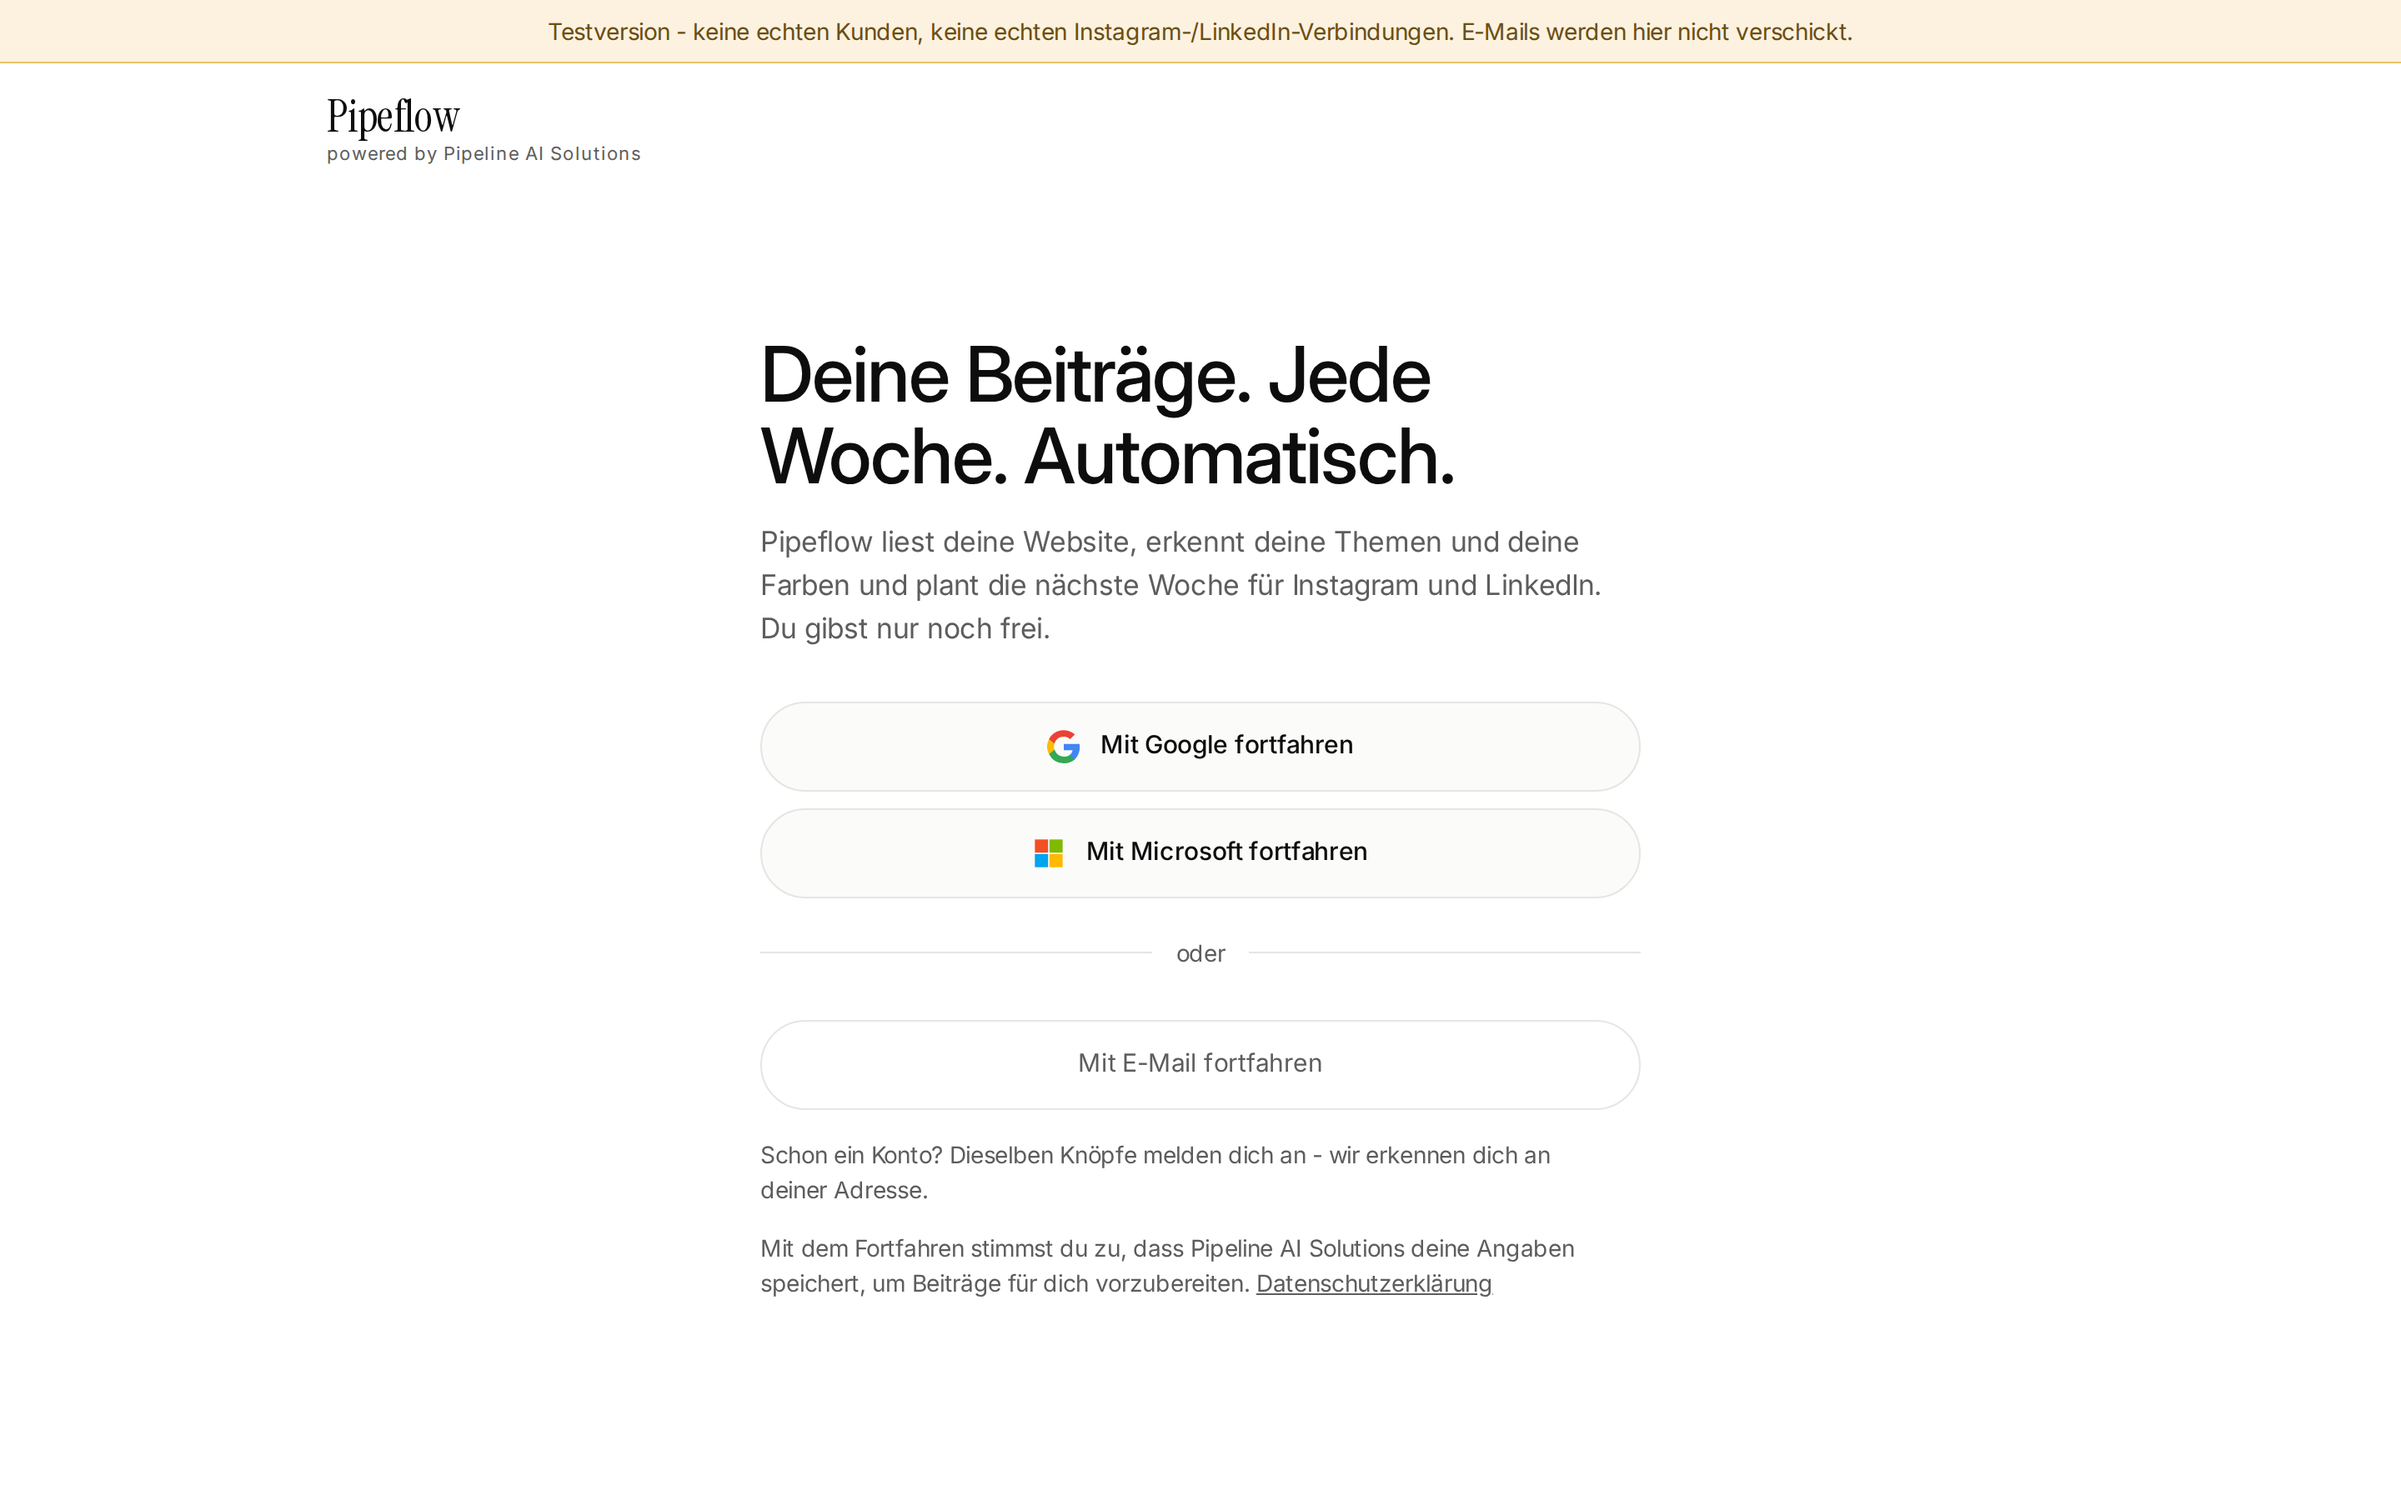
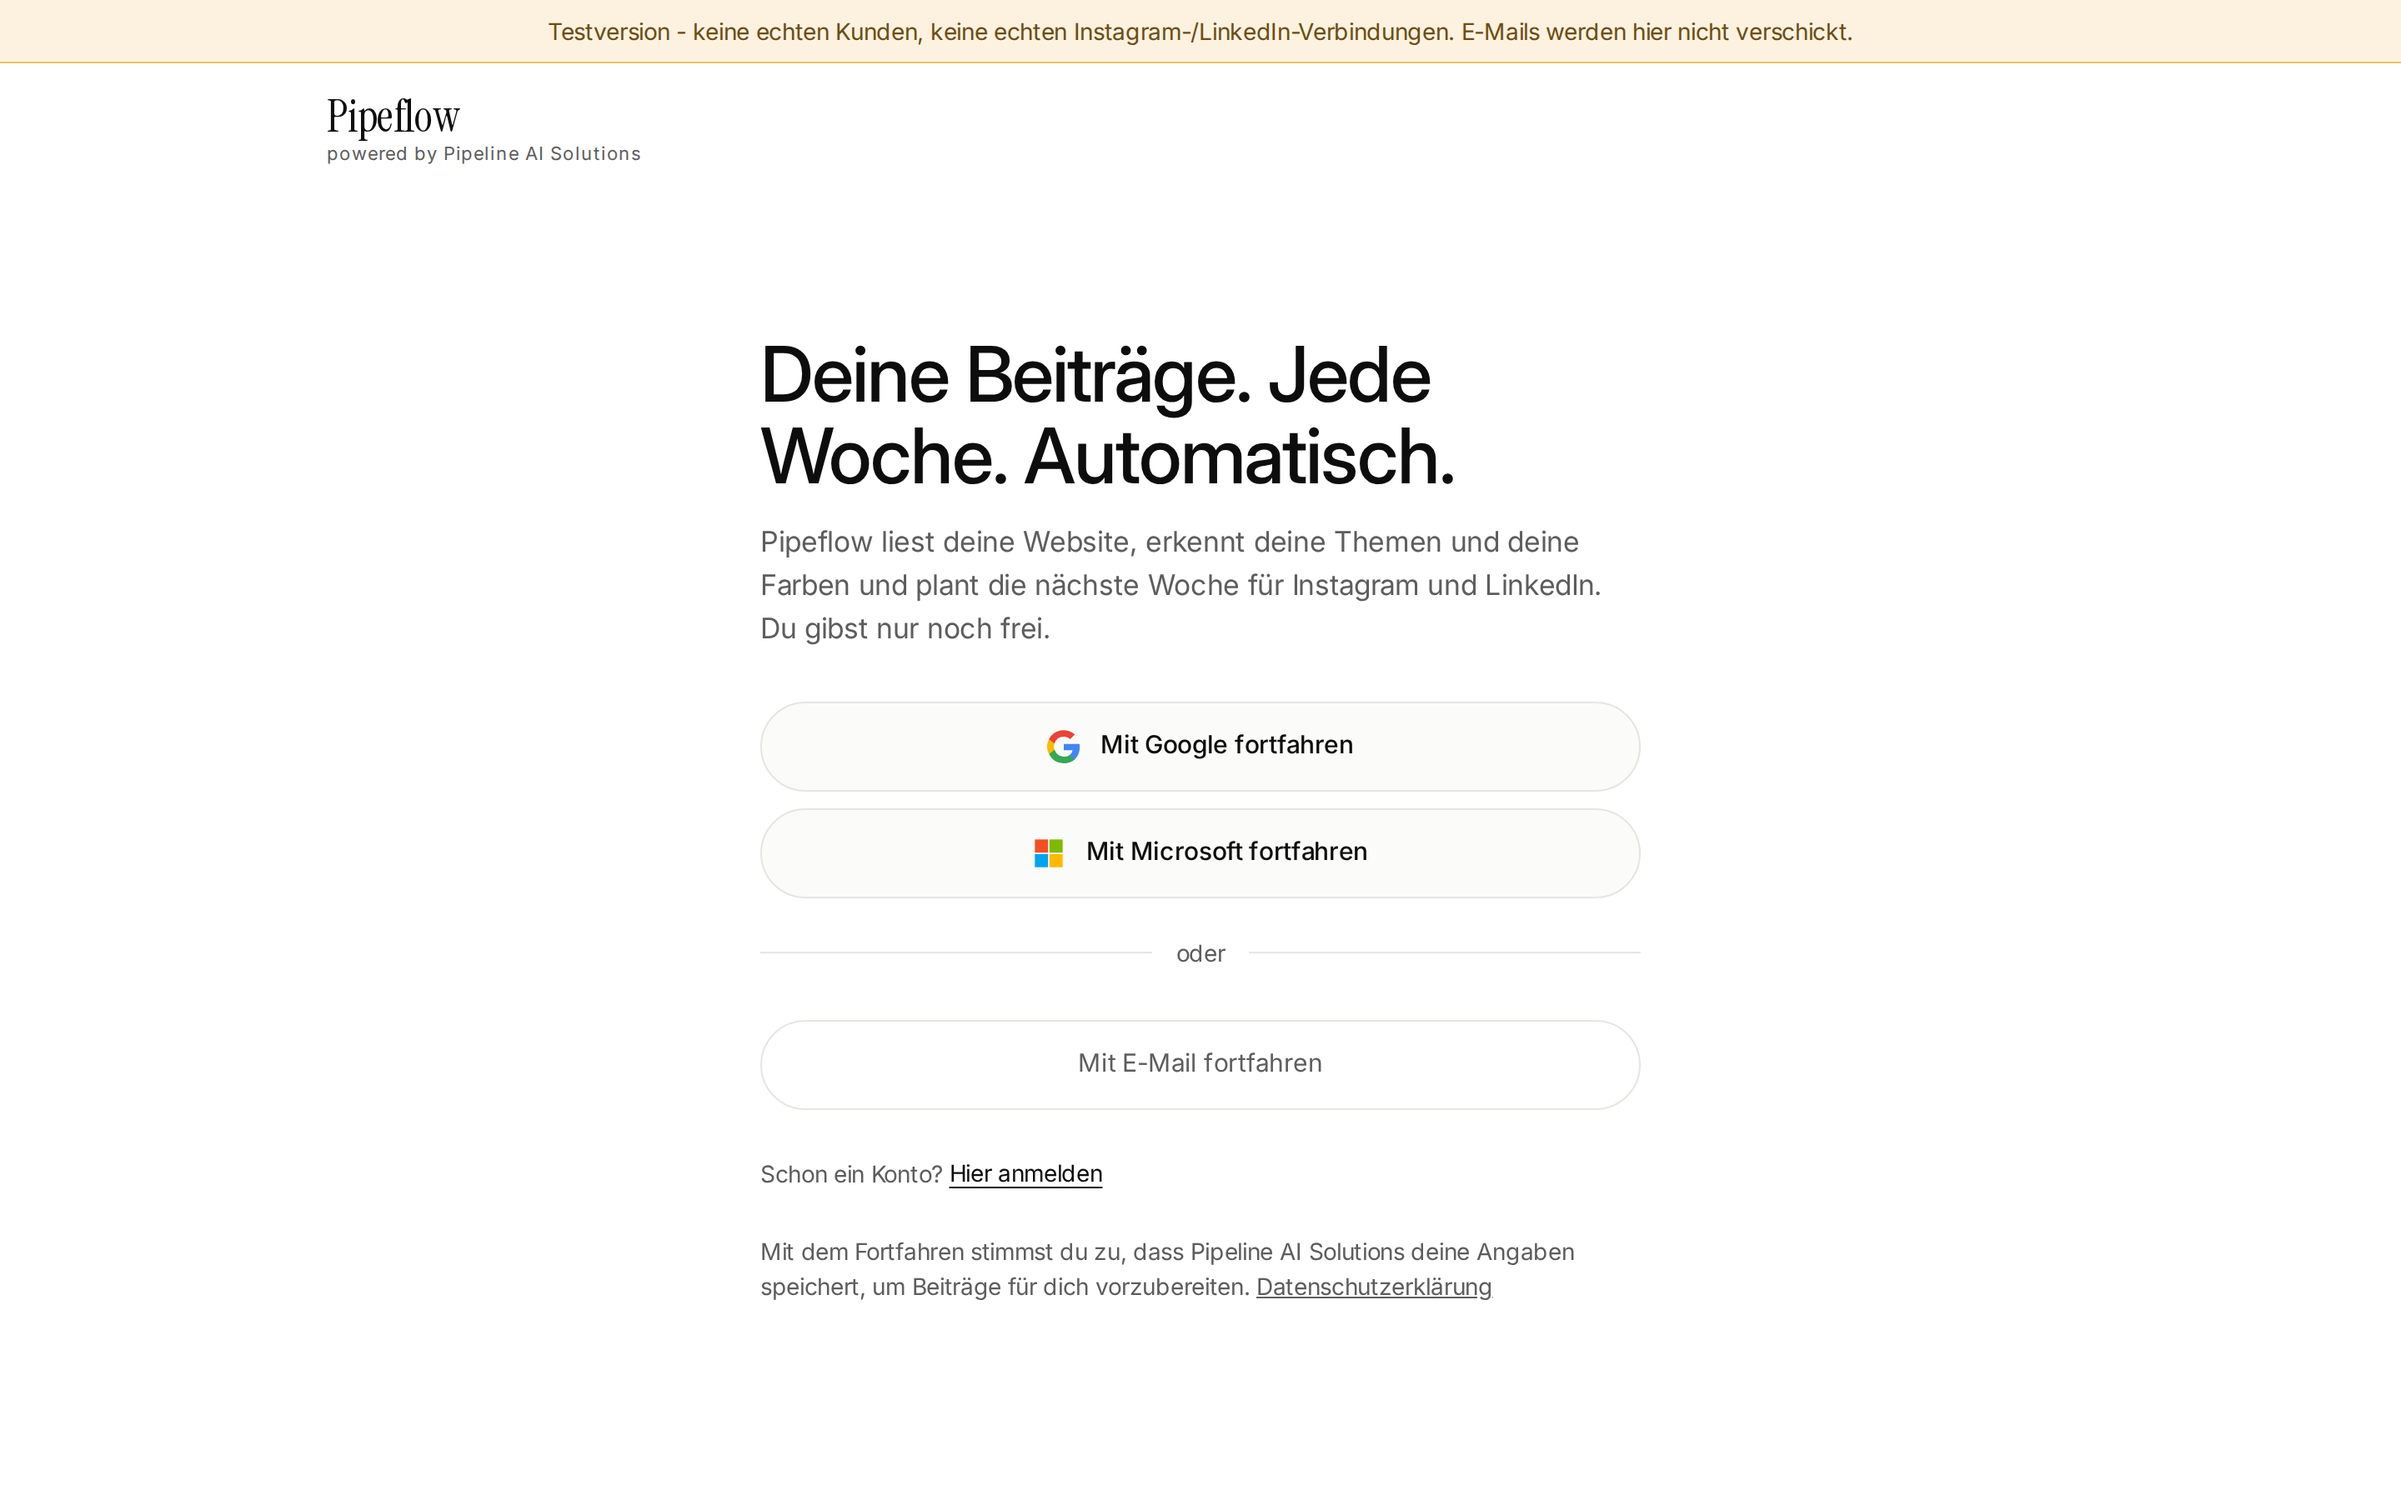
Eigener Anmelde-Bildschirm fuer Wiederkehrende (auf Ansage)
Der Auftrag wollte ausdruecklich keinen sichtbaren Unterschied zwischen
Registrieren und Anmelden; Paul hat sich nach Ruecksprache dagegen entschieden.

"Schon ein Konto? Hier anmelden" fuehrt auf einen eigenen Bildschirm mit
denselben Anbieter-Knoepfen (Wortlaut "anmelden") und einem E-Mail-Feld, das
einen Anmeldelink schickt. Serverseitig legt dieser Weg KEIN Konto an
(modus=anmelden): eine unbekannte Adresse bekommt eine klare Meldung samt
Ausweg, sonst haette ein Tippfehler still ein zweites leeres Konto erzeugt.

Report: Abweichung als eigener Abschnitt dokumentiert, Nummerierung geordnet.

Changed region(s): [[0.3125, 0.7467, 0.6562, 0.8711], [0.5625, 0.7467, 0.625, 0.7778]]

diff --git a/public/panel/start/start.js b/public/panel/start/start.js
@@ -130,7 +130,7 @@
     const stage = $("#stage");
     stage.classList.toggle("breit", ["ergebnis", "dashboard", "einstellungen", "plan"].includes(S.screen));
     const html = {
-      konto: kontoHtml, email: emailHtml, gesendet: gesendetHtml, willkommen: willkommenHtml,
+      konto: kontoHtml, anmelden: anmeldenHtml, email: emailHtml, gesendet: gesendetHtml, willkommen: willkommenHtml,
       website: websiteHtml, beschreibung: beschreibungHtml, arbeitet: arbeitetHtml,
       ergebnis: ergebnisHtml, anders: andersHtml, plan: planHtml, verbinden: verbindenHtml,
       dashboard: dashboardHtml, einstellungen: einstellungenHtml, fehler: fehlerHtml,
@@ -196,11 +196,37 @@
                unter dem Trenner und die ruhigere Gestaltung - nicht eine andere Breite. -->
           <button type="button" class="auth-btn mail-weg" data-go="email">Mit E-Mail fortfahren</button>
         </div>
-        <!-- Wiederkehrende brauchen keinen eigenen Weg, nur die Gewissheit, dass derselbe Knopf
-             auch anmeldet (Auftrag: kein sichtbarer Unterschied zwischen Registrieren und
-             Anmelden). Deshalb ein Satz statt eines zweiten Einstiegs. -->
-        <p class="auth-schon">Schon ein Konto? Dieselben Knöpfe melden dich an - wir erkennen dich an deiner Adresse.</p>
+        <!-- Eigener Einstieg fuer Wiederkehrende, auf Ansage vom 19.09.2026. Der Auftrag wollte
+             ausdruecklich KEINEN sichtbaren Unterschied zwischen Registrieren und Anmelden -
+             Paul hat sich nach Ruecksprache bewusst dagegen entschieden. Technisch macht es
+             keinen Unterschied: dieselben Anbieter-Knoepfe, nur der E-Mail-Weg legt drueben
+             kein Konto an (modus=anmelden, siehe start-routes.ts). -->
+        <p class="auth-schon">Schon ein Konto? <button type="button" class="link auth-link" data-go="anmelden">Hier anmelden</button></p>
         <p class="hint">Mit dem Fortfahren stimmst du zu, dass Pipeline AI Solutions deine Angaben speichert, um Beiträge für dich vorzubereiten. <a href="${esc(MOUNT || "/panel")}/datenschutz" target="_blank" rel="noopener">Datenschutzerklärung</a></p>
+      </section>`;
+  }
+
+  function anmeldenHtml() {
+    const liste = S.authProviders.filter((p) => p.available);
+    return `
+      <section class="hero">
+        <!-- "Willkommen zurück" gehoert dem Bildschirm, auf dem wir den Kunden bereits erkannt
+             haben (gueltige Sitzung). Hier wissen wir noch nicht, wer kommt - also die Handlung. -->
+        <h1>Anmelden</h1>
+        <p class="lede">Melde dich so an, wie du dein Konto angelegt hast. Es entsteht dabei nichts Neues.</p>
+        ${liste.length ? `<div class="auth-liste">
+          ${liste.map((p) => `<a class="auth-btn" href="${esc(MOUNT)}/auth/${esc(p.id)}">${AUTH_LOGO[p.id] || ""}Mit ${esc(p.name)} anmelden</a>`).join("")}
+        </div>
+        <div class="auth-trenner">oder</div>` : ""}
+        <form id="f-anmelden" novalidate>
+          <div class="field" style="margin-top:0">
+            <label for="email">E-Mail-Adresse</label>
+            <input class="input" id="email" name="email" type="email" inputmode="email" autocomplete="email" placeholder="du@deine-firma.at" value="${esc(S.email || "")}" required autofocus>
+            <p class="error" id="err-email" aria-live="assertive"></p>
+          </div>
+          <div class="actions"><button class="btn lg" type="submit">Anmeldelink schicken</button></div>
+          <p class="auth-schon">Noch kein Konto? <button type="button" class="link auth-link" data-go="konto">Hier geht's los</button></p>
+        </form>
       </section>`;
   }
 
@@ -771,7 +797,7 @@
     else { btn.textContent = btn.dataset.label || btn.textContent; btn.classList.remove("is-busy"); }
   }
 
-  async function emailAbsenden(form) {
+  async function emailAbsenden(form, modus) {
     const email = form.email.value.trim();
     feldFehler("email", "");
     if (!/^[^\s@]+@[^\s@]+\.[^\s@]{2,}$/.test(email)) { feldFehler("email", "Das sieht nicht nach einer E-Mail-Adresse aus. Bitte prüfe die Eingabe."); return; }
@@ -779,13 +805,18 @@
     const btn = $("button[type=submit]", form);
     beschaeftigt(btn, true, "Wird geprüft …");
     try {
-      const r = await api("POST", "/api/start/email", { email });
+      const r = await api("POST", "/api/start/email", modus ? { email, modus } : { email });
       if (r.status === "known") { S.mailGeschickt = r.mailed; go("gesendet"); return; }
       uebernehmen(r);
       go("website");
     } catch (err) {
       beschaeftigt(btn, false);
       feldFehler("email", err.message);
+      // Unbekannte Adresse im Anmelde-Bildschirm: der Weg nach vorn ist ein neues Konto.
+      if (err.data?.unbekannt) {
+        const box = $("#err-email");
+        if (box) box.innerHTML += ` <button type="button" class="link auth-link" data-go="email">Konto anlegen</button>`;
+      }
     }
   }
 
@@ -1023,6 +1054,7 @@
     const form = e.target;
     e.preventDefault();
     if (form.id === "f-email") emailAbsenden(form);
+    else if (form.id === "f-anmelden") emailAbsenden(form, "anmelden");
     else if (form.id === "f-website") vorschauAbsenden(form, "website");
     else if (form.id === "f-beschreibung") vorschauAbsenden(form, "beschreibung");
     else if (form.id === "f-anders") andersAbsenden(form);

diff --git a/src/panel/start-routes.ts b/src/panel/start-routes.ts
@@ -221,6 +221,16 @@ export function registerStartRoutes(router: Router, ctx: StartContext): void {
         res.json({ status: "known", mailed: false });
         return;
       }
+      // Aus dem Anmelde-Bildschirm ("Ich habe schon ein Konto") darf NIE ein Konto entstehen -
+      // sonst legt ein Tippfehler in der Adresse stillschweigend ein zweites an, und der Kunde
+      // steht vor einem leeren Dashboard und sucht seine Beitraege.
+      if (str(req.body?.modus, 20) === "anmelden") {
+        res.status(404).json({
+          error: "Zu dieser Adresse gibt es noch kein Konto. Prüfe die Schreibweise - oder leg in einer Minute ein neues an.",
+          unbekannt: true,
+        });
+        return;
+      }
       if (ctx.rateLimited(`start-signup:${ctx.clientIp(req)}`, 5, 24 * 3_600_000)) {
         res.status(429).json({ error: "Von deinem Anschluss wurden heute schon mehrere Konten angelegt. Bitte versuche es morgen noch einmal." });
         return;

diff --git a/public/panel/start/start.css b/public/panel/start/start.css
@@ -201,6 +201,7 @@ button { font: inherit; letter-spacing: inherit; color: inherit; }
 .auth-btn.mail-weg { background: transparent; color: var(--text-2); font-weight: 400; }
 .auth-btn.mail-weg:hover { background: var(--wash); color: var(--text); border-color: var(--text-2); }
 .auth-schon { margin-top: 16px; font-size: var(--t-small); color: var(--text-2); line-height: 1.5; }
+.auth-link { font-size: var(--t-small); padding: 4px 0; min-height: var(--tap); color: var(--text); }
 .auth-eintrag { display: grid; gap: 6px; }
 .auth-notiz { font-size: var(--t-small); color: var(--text-2); padding: 0 4px; line-height: 1.45; }
 .auth-btn[disabled] { cursor: default; }
